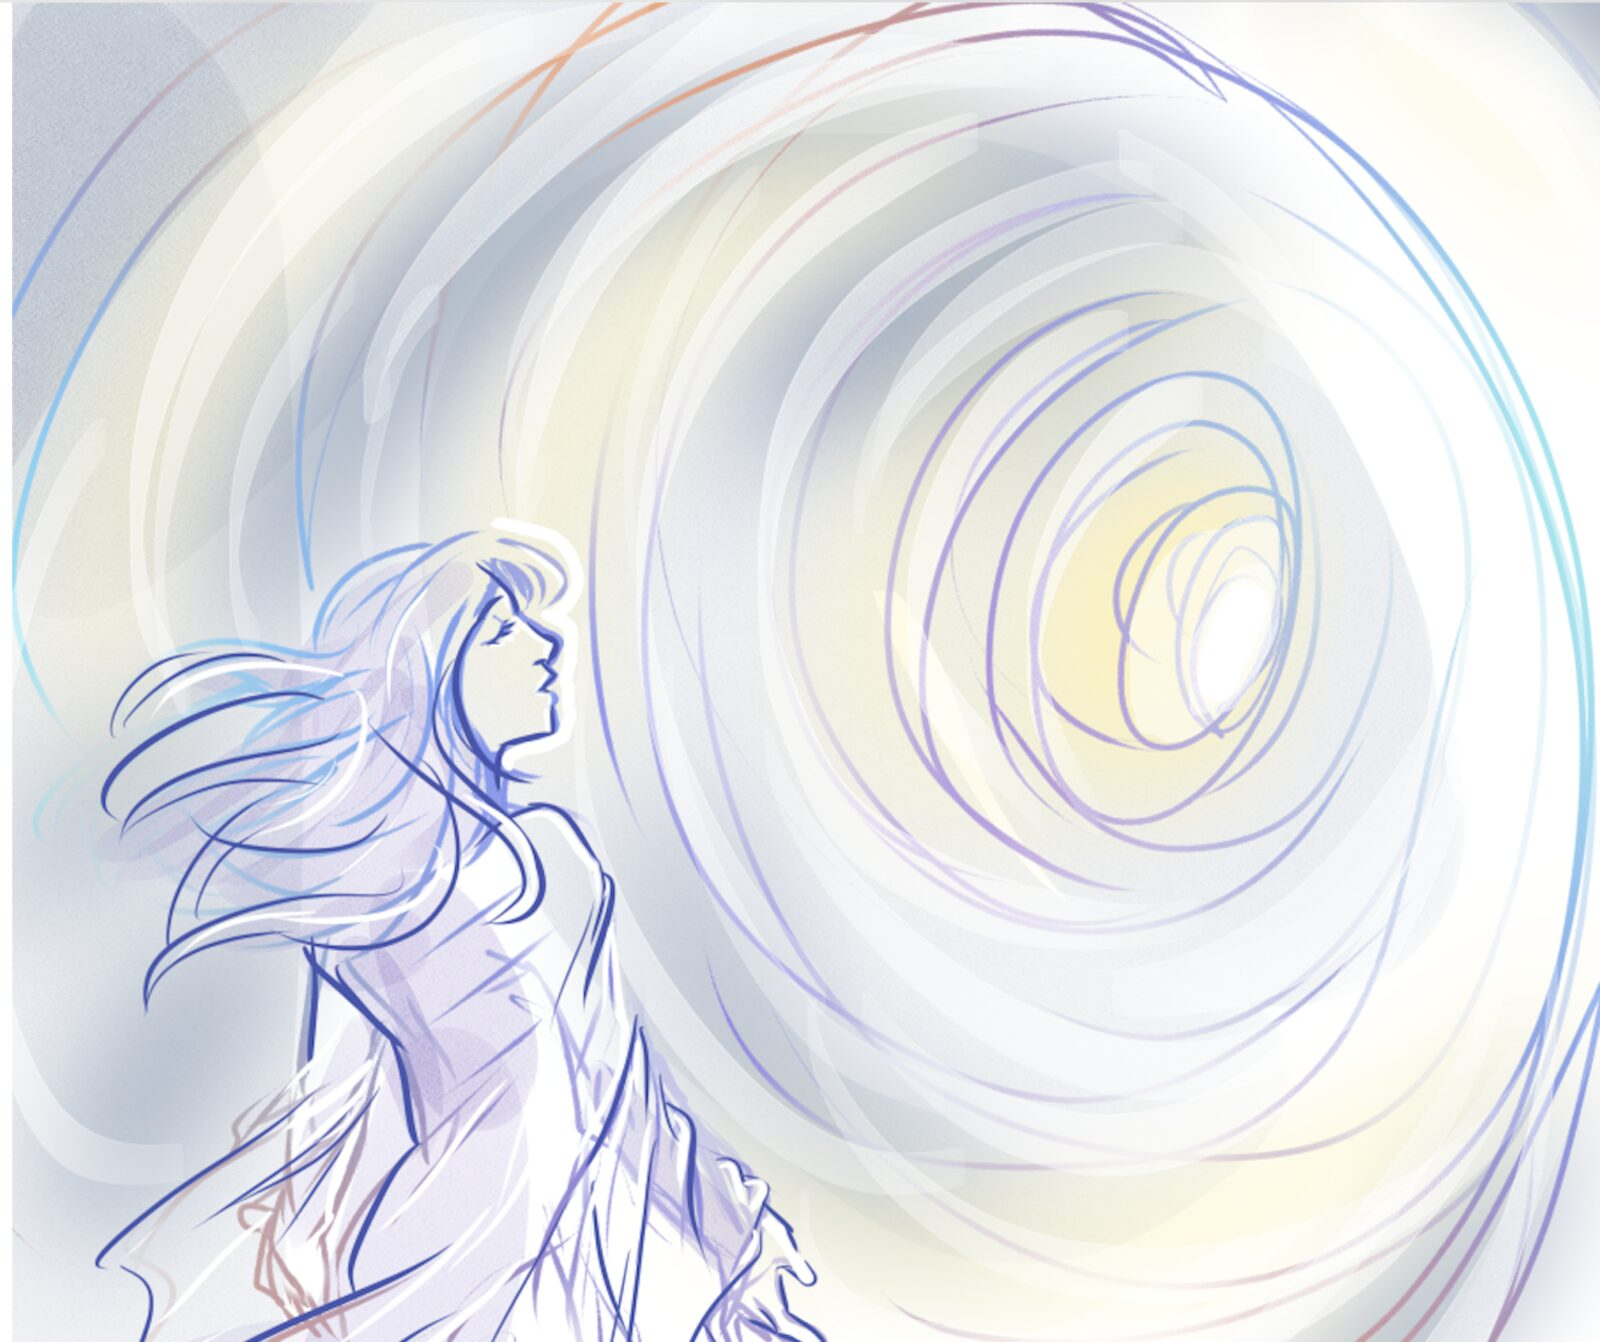
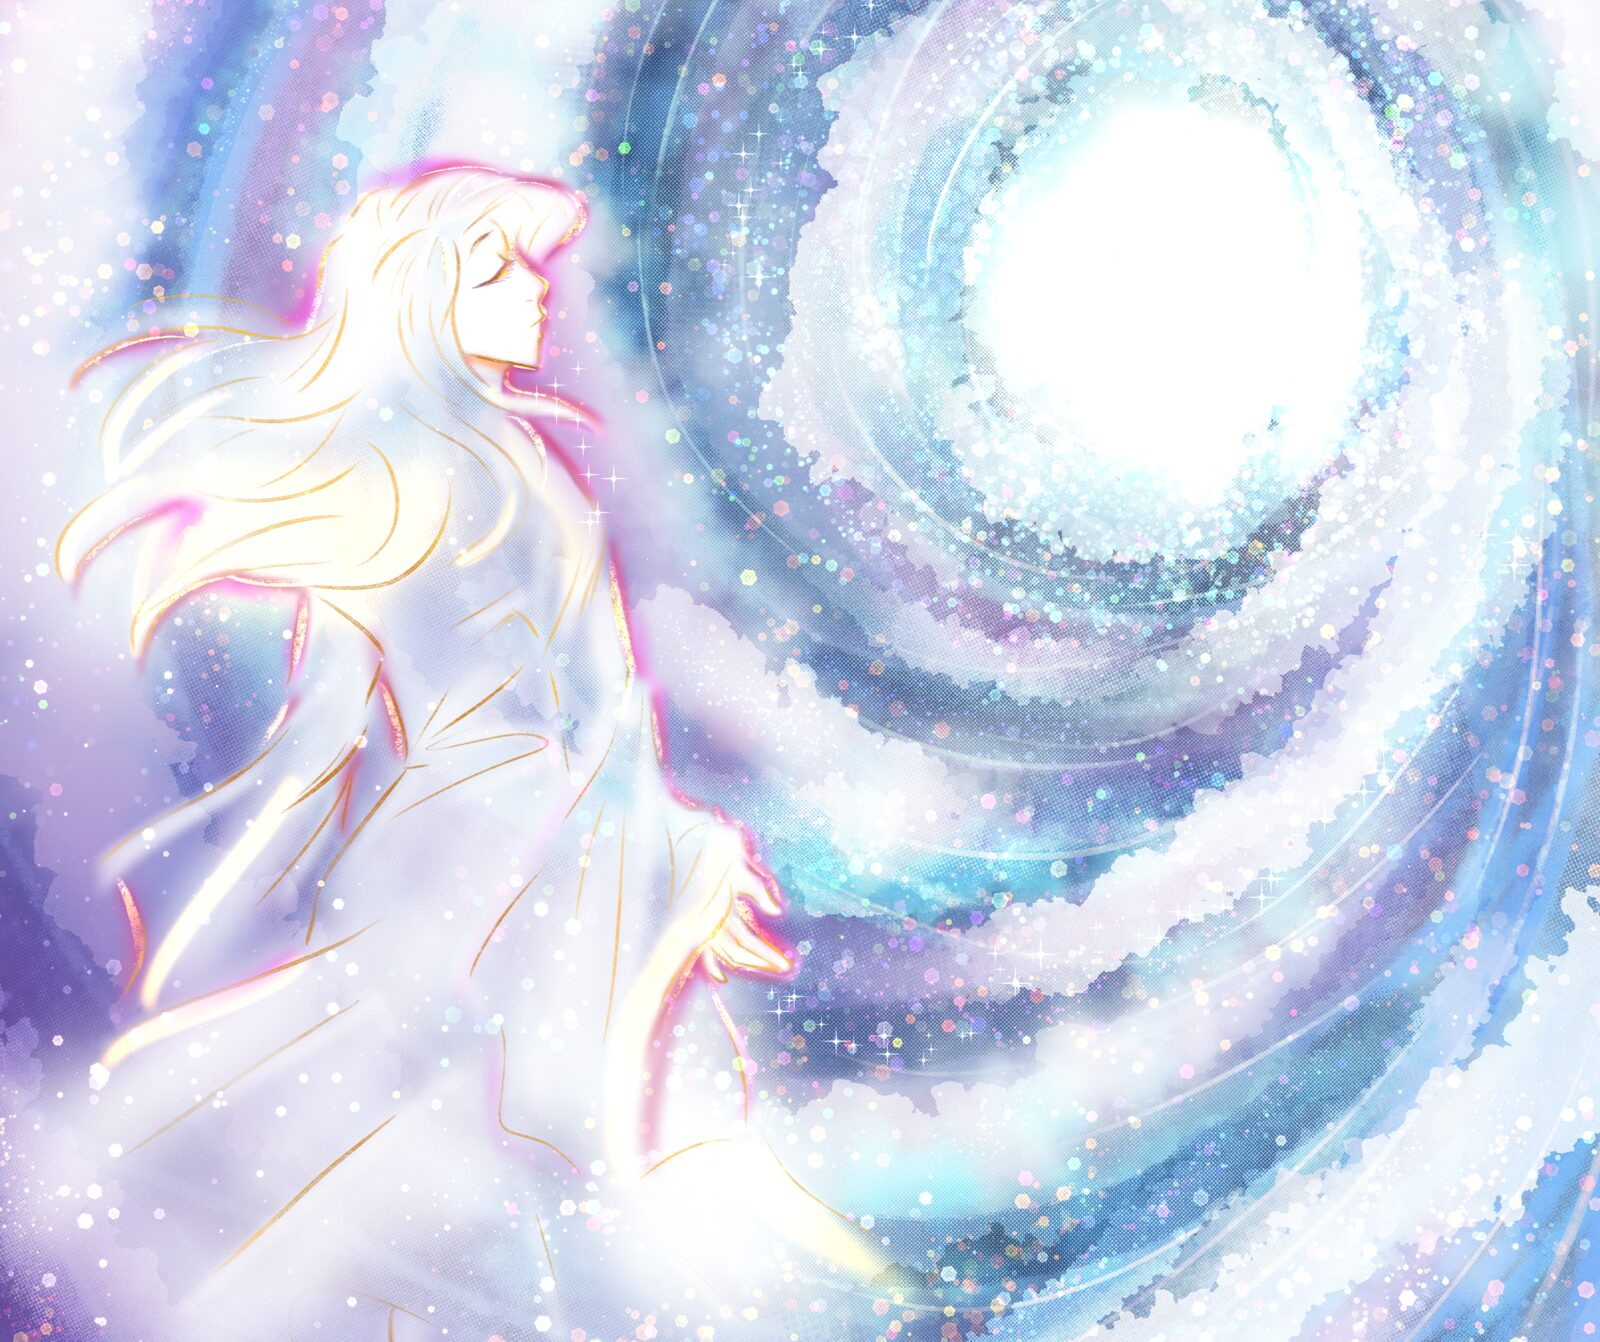
Add Luke O'Leary illustration finals; layer show credits
Illustrations (web-optimized from final art):
- Hero + OG image from Cover FINAL
- Gallery rebuilt to 7 finals: Tanya the Tiger, In the ICU, Post-NDE
  character study, plus final Cover/Choice/Snowflake(trimmed)/Other Side;
  drop superseded tanya-v-steve sketch; keep the Rough Cuts photo

Credits (from brochure v1 2026.08.11):
- Team: add Ben Jossi (orchestrations), Luke O'Leary portfolio link,
  Kennedy Center Emerging Playwright descriptor
- Home: add orchestrations credit line
- Why Now: add Loch Lomond title etymology

Layered onto current prod; Research/nav-baseline already handled upstream.

Claude-Session: https://claude.ai/code/session_015cRxXaB5iadv9MAFDv9jfY

diff --git a/gallery.md b/gallery.md
@@ -5,36 +5,46 @@ description: Illustrations for Five Minutes on the Low Road by Luke O'Leary.
 permalink: /gallery/
 ---
 
-<p class="gallery-intro">Illustrations by Luke O'Leary, in development.</p>
+<p class="gallery-intro">Illustrations by <a href="https://lukeoart.carrd.co">Luke O'Leary</a>, in development.</p>
 
 <div class="gallery-grid">
   <figure class="gallery-item">
-    <img src="{{ '/assets/images/gallery/tanya-light.jpg' | relative_url }}" alt="Tanya facing the tunnel of light" loading="lazy" width="1200" height="1007">
+    <img src="{{ '/assets/images/gallery/tanya-light.jpg' | relative_url }}" alt="Tanya facing the tunnel of light" loading="lazy" width="1236" height="1600">
     <figcaption class="gallery-caption">Tanya approaches the light</figcaption>
   </figure>
 
   <figure class="gallery-item">
-    <img src="{{ '/assets/images/gallery/tanya-flowers.jpg' | relative_url }}" alt="Tanya in a field of singing flowers" loading="lazy">
+    <img src="{{ '/assets/images/gallery/tanya-tiger.jpg' | relative_url }}" alt="Tanya the Tiger and Steve in the ruthless corporate world" loading="lazy" width="1133" height="1600">
+    <figcaption class="gallery-caption">Tanya the Tiger</figcaption>
+  </figure>
+
+  <figure class="gallery-item">
+    <img src="{{ '/assets/images/gallery/icu.jpg' | relative_url }}" alt="Tanya's spirit looking down on her body in the ICU as Jeff and Angela grieve" loading="lazy" width="1164" height="1600">
+    <figcaption class="gallery-caption">In the ICU</figcaption>
+  </figure>
+
+  <figure class="gallery-item">
+    <img src="{{ '/assets/images/gallery/snowflake.jpg' | relative_url }}" alt="A snowflake on a scarf, melting as she walks through the door" loading="lazy" width="534" height="1600">
+    <figcaption class="gallery-caption">As permanent as a snowflake</figcaption>
+  </figure>
+
+  <figure class="gallery-item">
+    <img src="{{ '/assets/images/gallery/tanya-flowers.jpg' | relative_url }}" alt="Tanya in a field of singing flowers on the other side" loading="lazy" width="1164" height="1600">
     <figcaption class="gallery-caption">In the garden</figcaption>
   </figure>
 
   <figure class="gallery-item">
-    <img src="{{ '/assets/images/gallery/tanya-v-steve.jpg' | relative_url }}" alt="Tanya and Steve in the corporate world" loading="lazy">
-    <figcaption class="gallery-caption">Tanya and Steve</figcaption>
-  </figure>
-
-  <figure class="gallery-item">
-    <img src="{{ '/assets/images/gallery/choice.jpg' | relative_url }}" alt="The choice — Tanya, her guide, and her body in the ICU" loading="lazy">
+    <img src="{{ '/assets/images/gallery/choice.jpg' | relative_url }}" alt="The choice — Tanya between her guide and her grieving daughter, her body in the ICU below" loading="lazy" width="1164" height="1600">
     <figcaption class="gallery-caption">The choice</figcaption>
   </figure>
 
   <figure class="gallery-item">
-    <img src="{{ '/assets/images/gallery/snowflake.jpg' | relative_url }}" alt="A snowflake on a scarf, melting" loading="lazy">
-    <figcaption class="gallery-caption"><!-- TODO: caption -->A snowflake, melting</figcaption>
+    <img src="{{ '/assets/images/gallery/character-study.jpg' | relative_url }}" alt="Post-NDE character study of Tanya — three expressions" loading="lazy" width="1600" height="700">
+    <figcaption class="gallery-caption">Post-NDE character study</figcaption>
   </figure>
 </div>
 
-<p class="gallery-attribution">All illustrations &copy; Luke O'Leary. Used with permission.</p>
+<p class="gallery-attribution">All illustrations &copy; <a href="https://lukeoart.carrd.co">Luke O'Leary</a>. Used with permission.</p>
 
 <section class="section">
   <h2 class="section-heading">Rough Cuts at Nautilus Music-Theater — March 2026</h2>

diff --git a/team.md b/team.md
@@ -33,12 +33,19 @@ Josiah Thomas Turner is a writer, musician, and theater-maker. He holds an MFA i
 
 {% include divider.html %}
 
-## Luke O'Leary
-<p class="label">Illustration</p>
+## Ben Jossi
+<p class="label">Orchestrations</p>
 
-<!-- TODO: headshot + bio for Luke O'Leary -->
-Luke O'Leary created the illustrations for *Five Minutes on the Low Road* — the tunnel-of-light hero art and the gallery pieces. Full bio coming soon.
+Ben Jossi orchestrates *Five Minutes on the Low Road*. He is a winner of the Louis Armstrong Award, the Woody Herman Award, and the Founders Award.
 
 {% include divider.html %}
 
-<p class="label">Book, lyrics, and music by Charles T. Betz. Additional book, lyrics, and music by Josiah Thomas Turner. Dramaturgy by Josiah Thomas Turner. Illustrations by Luke O'Leary.</p>
+## Luke O'Leary
+<p class="label">Illustration</p>
+
+<!-- TODO: headshot for Luke O'Leary -->
+Luke O'Leary created the illustrations for *Five Minutes on the Low Road* — the tunnel-of-light hero art and the gallery pieces. See more of his work at [lukeoart.carrd.co](https://lukeoart.carrd.co).
+
+{% include divider.html %}
+
+<p class="label">Book, music, lyrics, and original concept by Charles T. Betz. Additional book, lyrics, and music by Josiah Thomas Turner, Kennedy Center Emerging Playwright. Dramaturgy by Josiah Thomas Turner. Orchestrations by Ben Jossi. Illustrations by Luke O'Leary.</p>

diff --git a/index.md b/index.md
@@ -11,7 +11,7 @@ description: A new musical about near-death experience, empathy, and transformat
     <p class="hero-subtitle">A near-death musical</p>
   </div>
   <div class="hero-bottom">
-    <p class="hero-credit">Book, music, lyrics, and original concept by Charles T. Betz.<br>Additional book, lyrics, and music by Josiah Thomas Turner.<br>Dramaturgy by Josiah Thomas Turner.</p>
+    <p class="hero-credit">Book, music, lyrics, and original concept by Charles T. Betz.<br>Additional book, lyrics, and music by Josiah Thomas Turner.<br>Dramaturgy by Josiah Thomas Turner. Orchestrations by Ben Jossi.</p>
     <div class="cta-row">
       <a class="btn btn-secondary" href="{{ '/research/' | relative_url }}">The Research</a>
       <a class="btn btn-secondary" href="{{ '/subscribe/' | relative_url }}">Stay in Touch</a>

diff --git a/about.md b/about.md
@@ -43,6 +43,12 @@ There are not many plays, TV shows, or movies that treat the NDE accurately. Per
 
 {% include divider.html %}
 
+## About the title
+
+*Five Minutes on the Low Road* takes its name from the traditional Scottish folk song "Loch Lomond." In the well-known chorus — "You take the high road, and I'll take the low road" — the "low road" is the road of the spirit home.
+
+{% include divider.html %}
+
 ## Development status
 
 The show is currently in development under the auspices of the New Musical Theater Exchange (nmte.org) in Minneapolis.  Concept recordings are in progress. The show has been presented at readings at both NMTE workshops and Nautilus Music Theater's "Rough Cuts" series.
